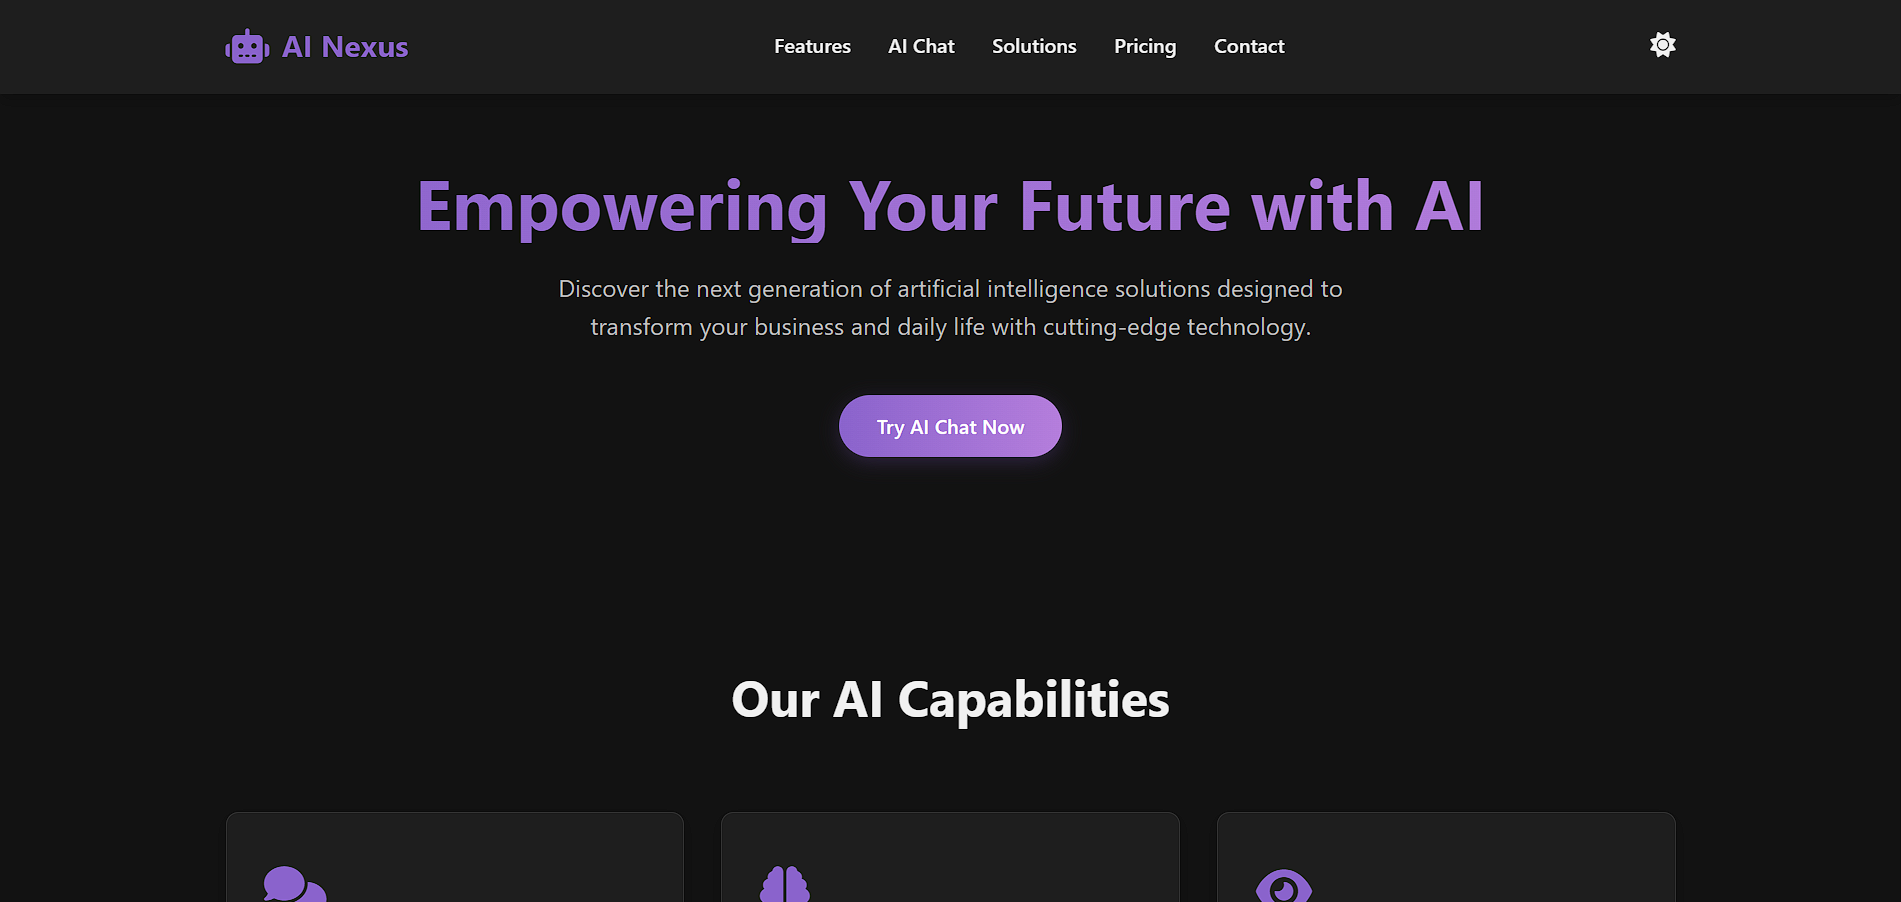
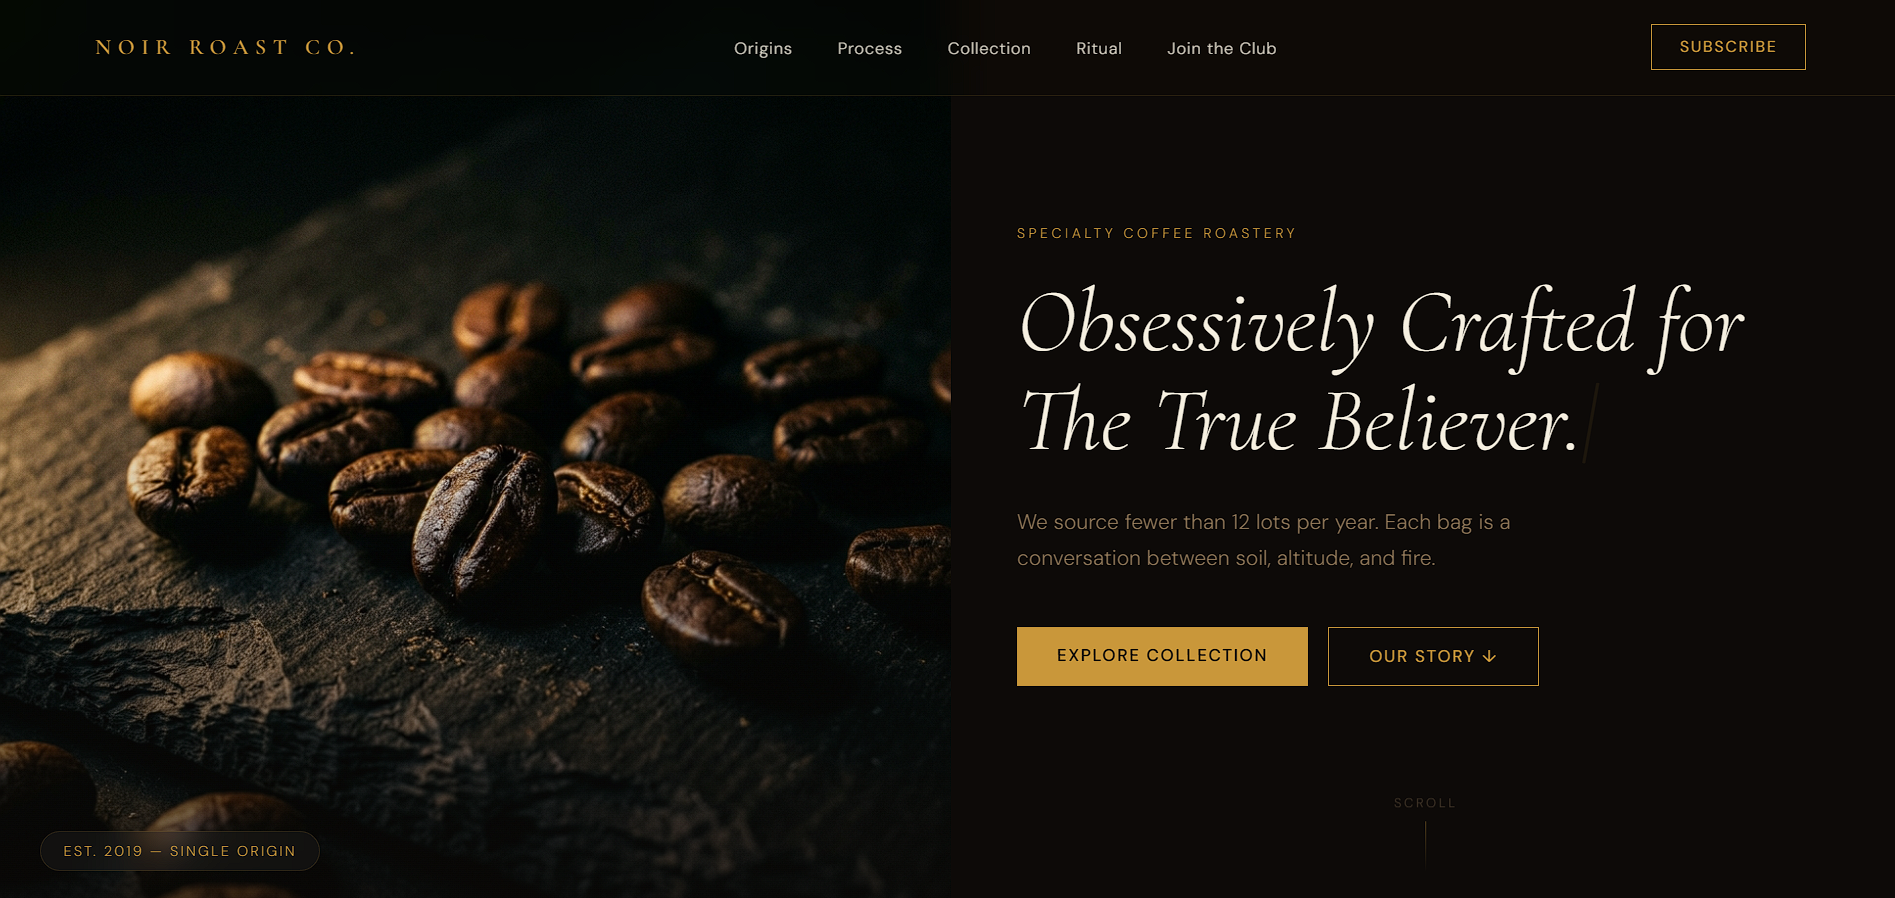
Update portfolio and meta tags

diff --git a/src/components/Portfolio.tsx b/src/components/Portfolio.tsx
@@ -1,7 +1,6 @@
 import React, { useEffect, useRef } from 'react';
 import img1 from './video/1.png';
 import img2 from './video/2.png';
-import img3 from './video/3.png';
 
 // Inform TypeScript about the global Swiper & GSAP objects from CDN
 declare var Swiper: any;
@@ -13,26 +12,23 @@ interface PortfolioItem {
   title: string;
   description: string;
   imageUrl: string;
+  link: string;
 }
 
 const portfolioData: PortfolioItem[] = [
   {
     id: '1',
-    title: 'AI Nexus',
-    description: 'An intelligent e-commerce interface that adapts to user behavior with AI-driven recommendations, dynamic product displays, and seamless mobile-first design.',
+    title: 'High-Conversion Landing Page',
+    description: 'A premium landing page designed for luxury brands like coffee roasteries or watch collections, featuring glassmorphism navigation, a dynamic typing hero section, scroll-based animations (AOS), a custom product slider with Swiper.js, and a real email capture system using EmailJS. Optimized with .webp assets for ultra-fast performance and maximum user conversion.',
     imageUrl: img1,
+    link: 'https://dhivagar2007.github.io/Projects-/',
   },
   {
     id: '2',
-    title: 'Alex Carter CyberShield',
-    description: 'An advanced cybersecurity dashboard for real-time threat analysis, penetration test reporting, and live vulnerability detection with an intuitive UI.',
+    title: 'Digital Menu Web App',
+    description: 'A modern digital menu solution for cafes and food businesses with real-time search filtering, multi-category selection, and an interactive frontend cart with local storage persistence. Built with a responsive grid system and integrated WhatsApp ordering for seamless customer experience.',
     imageUrl: img2,
-  },
-  {
-    id: '3',
-    title: 'Decoding Human Physiology Through Data',
-    description: 'A responsive web platform that visualizes complex human physiological data in real-time using interactive dashboards and modern frontend frameworks.',
-    imageUrl: img3,
+    link: 'https://dhivagar2007.github.io/brewtopia/',
   }
 ];
 
@@ -114,7 +110,7 @@ const Portfolio: React.FC = () => {
           <div className="swiper-wrapper">
             {displayData.map((item) => (
               <div className="swiper-slide" key={item.uniqueId}>
-                <div className="portfolio-item-card">
+                <a href={item.link} target="_blank" rel="noopener noreferrer" className="portfolio-item-card" style={{ display: 'block', textDecoration: 'none', color: 'inherit' }}>
                   <div className="portfolio-media-wrapper">
                     <img
                       src={item.imageUrl}
@@ -126,7 +122,7 @@ const Portfolio: React.FC = () => {
                     <h3>{item.title}</h3>
                     <p>{item.description}</p>
                   </div>
-                </div>
+                </a>
               </div>
             ))}
           </div>

diff --git a/index.html b/index.html
@@ -8,9 +8,9 @@
   <!-- SEO Meta Tags -->
   <title>Div Creator | Tech Solutions Agency - React</title>
   <meta name="description"
-    content="Div Creator is a student-powered tech innovation agency offering affordable web development, cybersecurity services, and academic project solutions. We build impactful digital experiences." />
+    content="Div Creator is a student-powered tech innovation agency offering affordable web development, frontend testing, dynamic landing pages, react apps, and web design. We build impactful digital experiences." />
   <meta name="keywords"
-    content="web development, cybersecurity, student projects, tech solutions, affordable websites, web design, Pollachi, Coimbatore, Div Creator" />
+    content="web development, web developing, best web developers, custom website creation, React web development, frontend development, top web development agency, affordable websites, web design, SEO optimization, Pollachi, Coimbatore, Div Creator" />
   <meta name="author" content="Div Creator" />
 
   <!-- Open Graph / Social Media -->
